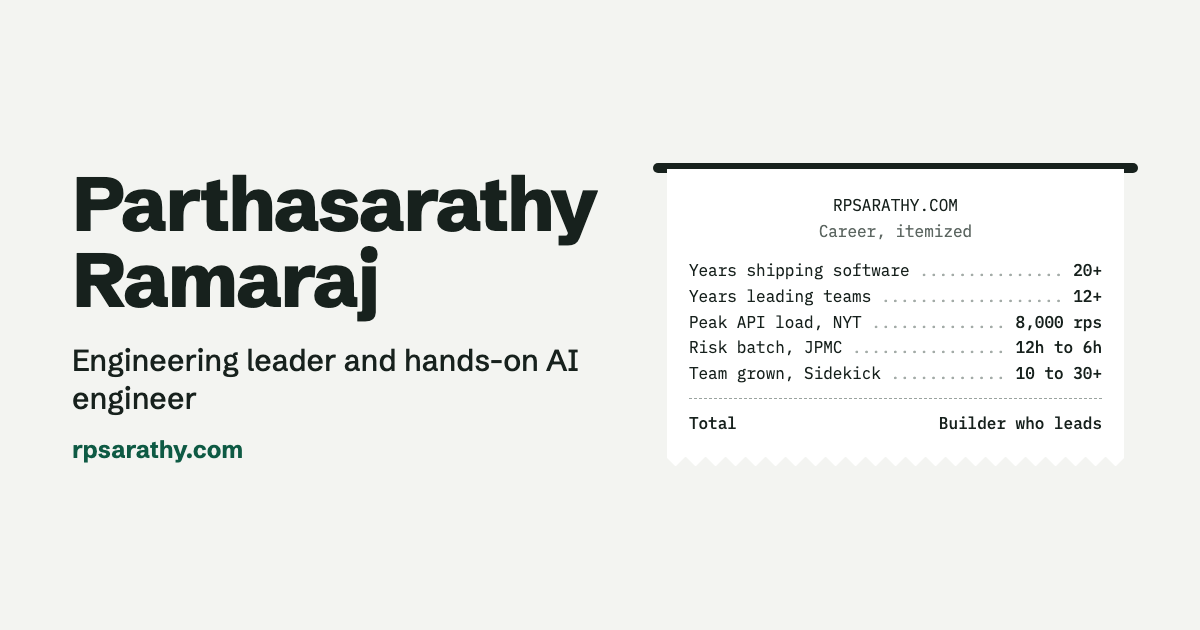
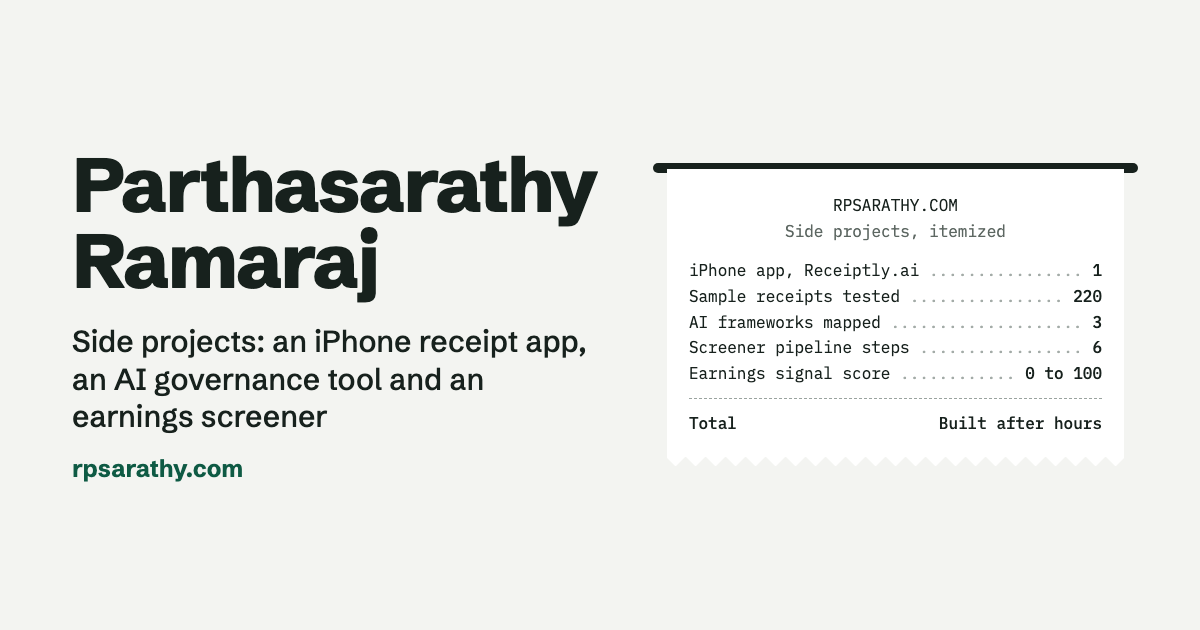
Focus profile on personal projects; remove work history

diff --git a/index.html b/index.html
@@ -3,11 +3,11 @@
 <head>
 <meta charset="utf-8">
 <meta name="viewport" content="width=device-width, initial-scale=1">
-<title>Parthasarathy Ramaraj, Engineering Leader and Hands-On AI Engineer</title>
-<meta name="description" content="Parthasarathy (Partha) Ramaraj: engineering leader and hands-on AI engineer with 20+ years building software, currently Vice President at J.P. Morgan Chase. Builder of Receiptly.ai, an AI governance assessment tool and an open-source earnings screener.">
+<title>Parthasarathy Ramaraj, Projects</title>
+<meta name="description" content="Side projects by Parthasarathy (Partha) Ramaraj: Receiptly.ai, an on-device iPhone receipt app; an AI governance assessment tool; and an open-source earnings and sentiment screener.">
 <link rel="canonical" href="https://rpsarathy.com/">
 <meta property="og:title" content="Parthasarathy Ramaraj">
-<meta property="og:description" content="Engineering leader and hands-on AI engineer, 20+ years, currently VP at J.P. Morgan Chase. Suited to Engineering Manager, Staff and Principal Engineer, and Architect roles.">
+<meta property="og:description" content="Side projects by Parthasarathy (Partha) Ramaraj: Receiptly.ai, an on-device iPhone receipt app; an AI governance assessment tool; and an open-source earnings and sentiment screener.">
 <meta property="og:url" content="https://rpsarathy.com/">
 <meta property="og:type" content="profile">
 <meta property="og:image" content="https://rpsarathy.com/assets/og-image.png">
@@ -16,7 +16,7 @@
 <meta property="og:image:alt" content="Parthasarathy Ramaraj, engineering leader and hands-on AI engineer">
 <meta name="twitter:card" content="summary_large_image">
 <meta name="twitter:title" content="Parthasarathy Ramaraj">
-<meta name="twitter:description" content="Engineering leader and hands-on AI engineer, 20+ years, currently VP at J.P. Morgan Chase. Suited to Engineering Manager, Staff and Principal Engineer, and Architect roles.">
+<meta name="twitter:description" content="Side projects by Parthasarathy (Partha) Ramaraj: Receiptly.ai, an on-device iPhone receipt app; an AI governance assessment tool; and an open-source earnings and sentiment screener.">
 <meta name="twitter:image" content="https://rpsarathy.com/assets/og-image.png">
 <script type="application/ld+json">
 {
@@ -25,8 +25,6 @@
   "name": "Parthasarathy Ramaraj",
   "alternateName": "Partha Ramaraj",
   "url": "https://rpsarathy.com/",
-  "jobTitle": "Vice President, Sr Lead Software Engineer",
-  "worksFor": { "@type": "Organization", "name": "J.P. Morgan Chase" },
   "address": { "@type": "PostalAddress", "addressRegion": "NJ", "addressCountry": "US" },
   "sameAs": [
     "https://linkedin.com/in/parthasarathy-ramaraj-rb20b1981",
@@ -102,6 +100,7 @@
     max-width: 30ch;
   }
   .intro { max-width: 58ch; margin: 0 0 14px; }
+  .open-inline { color: var(--green); font-weight: 600; }
   .open { font-weight: 500; margin: 0 0 24px; max-width: 58ch; }
   .open strong { color: var(--green); font-weight: 600; }
   .actions { display: flex; flex-wrap: wrap; align-items: center; gap: 12px 24px; margin: 0 0 22px; }
@@ -271,10 +270,9 @@
   <header class="hero">
     <div>
       <h1>Parthasarathy Ramaraj</h1>
-      <p class="role">Engineering leader and hands-on AI engineer.</p>
-      <p class="intro">I've spent 20+ years building software and 12+ leading the teams that build it, across finance, media, PropTech and marketing technology.</p>
-      <p class="intro">Today I'm a Vice President, Sr Lead Software Engineer at J.P. Morgan Chase, where I write Python and Java every day and build production AI agents. Most people call me Partha. I'm based in New Jersey.</p>
-      <p class="open">Suited to Engineering Manager, Staff and Principal Engineer, and Architect roles. <strong>Open to conversations.</strong></p>
+      <p class="role">Engineering leader by day. I build my own software the rest of the time.</p>
+      <p class="intro">This page is about what I make on my own: an iPhone app for receipts, a tool for reviewing how companies govern AI, and a daily earnings screener. Each one is designed, written and run by me.</p>
+      <p class="intro">My work history is on LinkedIn and in my resume. Most people call me Partha. I'm based in New Jersey, and I'm <strong class="open-inline">open to conversations</strong>.</p>
       <div class="actions">
         <a class="btn" href="assets/Parthasarathy_Ramaraj_Resume.pdf">Download resume (PDF)</a>
         <a href="mailto:parthasarathy.ramaraj@protonmail.com">Email me</a>
@@ -286,40 +284,25 @@
       </ul>
     </div>
 
-    <div class="receipt-slot" role="img" aria-label="A career summary printed as a receipt: 20+ years shipping software, 12+ years leading teams, 8,000 requests per second peak API load at The New York Times, a JPMC risk batch cut from 12 hours to 6, a Sidekick team grown from 10 to 30+, and 15% fewer support tickets from an AI agent.">
+    <div class="receipt-slot" role="img" aria-label="My side projects printed as a receipt: one iPhone app, Receiptly.ai, tested against 220 sample receipts; an AI governance tool mapped to 3 frameworks with a 38-question vendor review; and an earnings screener with a 6-step pipeline that scores companies from 0 to 100.">
       <div class="receipt" aria-hidden="true">
         <p class="shop">RPSARATHY.COM</p>
-        <p class="sub">Career, itemized</p>
+        <p class="sub">Side projects, itemized</p>
         <dl>
-          <div class="line"><dt>Years shipping software</dt><dd>20+</dd></div>
-          <div class="line"><dt>Years leading teams</dt><dd>12+</dd></div>
-          <div class="line"><dt>Peak API load, NYT</dt><dd>8,000 rps</dd></div>
-          <div class="line"><dt>Risk batch, JPMC</dt><dd>12h to 6h</dd></div>
-          <div class="line"><dt>Team grown, Sidekick</dt><dd>10 to 30+</dd></div>
-          <div class="line"><dt>Tickets cut by an AI agent</dt><dd>15%</dd></div>
+          <div class="line"><dt>iPhone app, Receiptly.ai</dt><dd>1</dd></div>
+          <div class="line"><dt>Sample receipts tested</dt><dd>220</dd></div>
+          <div class="line"><dt>AI frameworks mapped</dt><dd>3</dd></div>
+          <div class="line"><dt>Vendor review questions</dt><dd>38</dd></div>
+          <div class="line"><dt>Screener pipeline steps</dt><dd>6</dd></div>
+          <div class="line"><dt>Earnings signal score</dt><dd>0 to 100</dd></div>
         </dl>
         <hr>
-        <div class="total"><span>Total</span><span>Builder who leads</span></div>
+        <div class="total"><span>Total</span><span>Built after hours</span></div>
         <p class="thanks">Thank you. Come again.</p>
         <div class="barcode"></div>
       </div>
     </div>
   </header>
-
-  <section aria-labelledby="work">
-    <h2 id="work">Where I've worked</h2>
-    <p class="lede">Hands-on in every role, including the ones with a team to lead.</p>
-    <ul class="work">
-      <li><span class="years">2024 to now</span><span><span class="org">J.P. Morgan Chase</span><span class="title">Vice President, Sr Lead Software Engineer</span><span class="what">Architecture and delivery for a firmwide credit risk platform, and production AI agents built with LangGraph and MCP.</span></span></li>
-      <li><span class="years">2023 to now</span><span><span class="org">ZYRO Hive, a non-profit</span><span class="title">Technical Adviser, AI and Knowledge Graph Architecture</span><span class="what">LLMs combined with a Neo4j knowledge graph for decision support. Advisory and unpaid.</span></span></li>
-      <li><span class="years">2022 to 2023</span><span><span class="org">Thrivent</span><span class="title">Senior Architect (Engineering Leader)</span><span class="what">Four remote teams in growth and marketing engineering, grown 40% in six months.</span></span></li>
-      <li><span class="years">2021 to 2022</span><span><span class="org">Sidekick (formerly Avenue 8)</span><span class="title">Engineering Director</span><span class="what">Interim CTO of a Series A startup; grew engineering from 10 to 30+ and rebuilt the platform.</span></span></li>
-      <li><span class="years">2015 to 2021</span><span><span class="org">The New York Times</span><span class="title">Senior Software Engineer/Development Manager</span><span class="what">Growth and marketing engineering through the move to digital subscriptions, including an 8,000-requests-per-second decision engine.</span></span></li>
-      <li><span class="years">2014 to 2015</span><span><span class="org">Citi, as a consultant</span><span class="title">Technical Lead / Architect</span><span class="what">Set up an onsite and offshore team, fixed production memory and performance issues, and built new test environments.</span></span></li>
-      <li><span class="years">2011 to 2014</span><span><span class="org">Markit (now S&amp;P Global)</span><span class="title">Lead Engineer, Vice President</span><span class="what">Low-latency reference-data and post-trade platforms for sell-side clients.</span></span></li>
-      <li><span class="years">2002 to 2011</span><span><span class="org">Consulting, financial-services clients</span><span class="title">Senior Consultant, Software Engineer</span><span class="what">Enterprise Java, SQL and distributed systems, with full ownership in production.</span></span></li>
-    </ul>
-  </section>
 
   <section aria-labelledby="building">
     <h2 id="building">What I'm building</h2>
